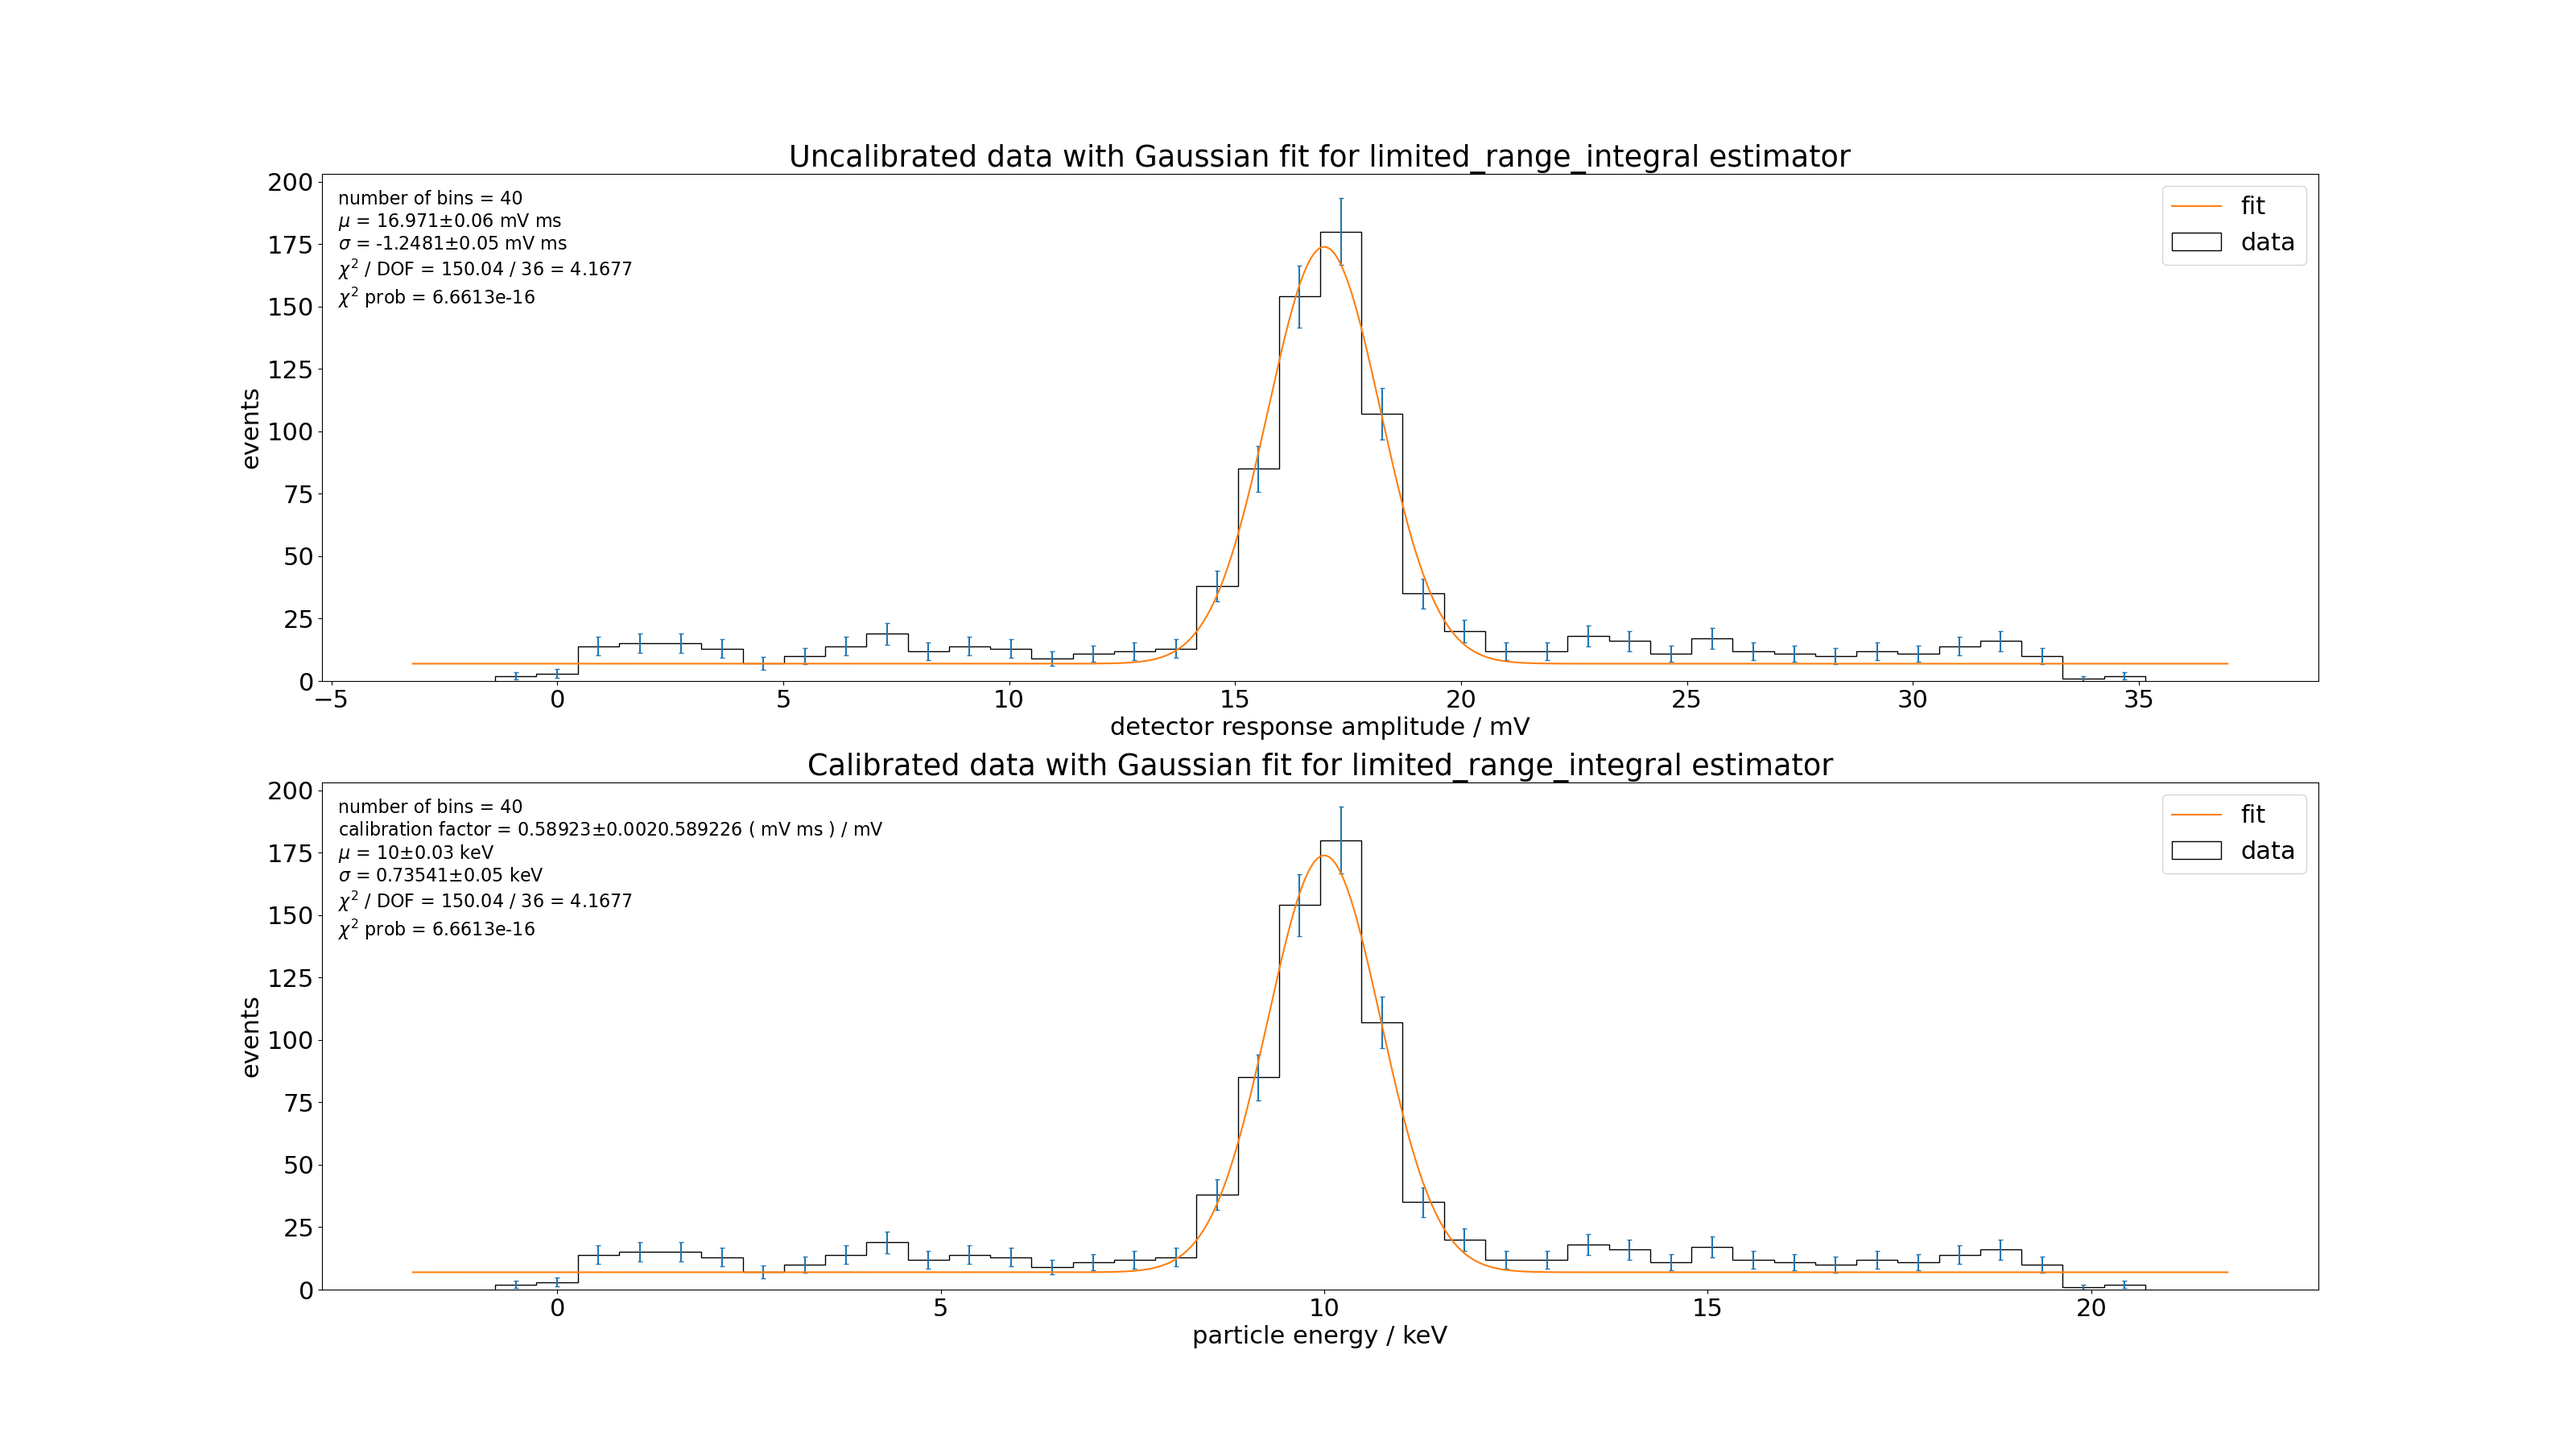
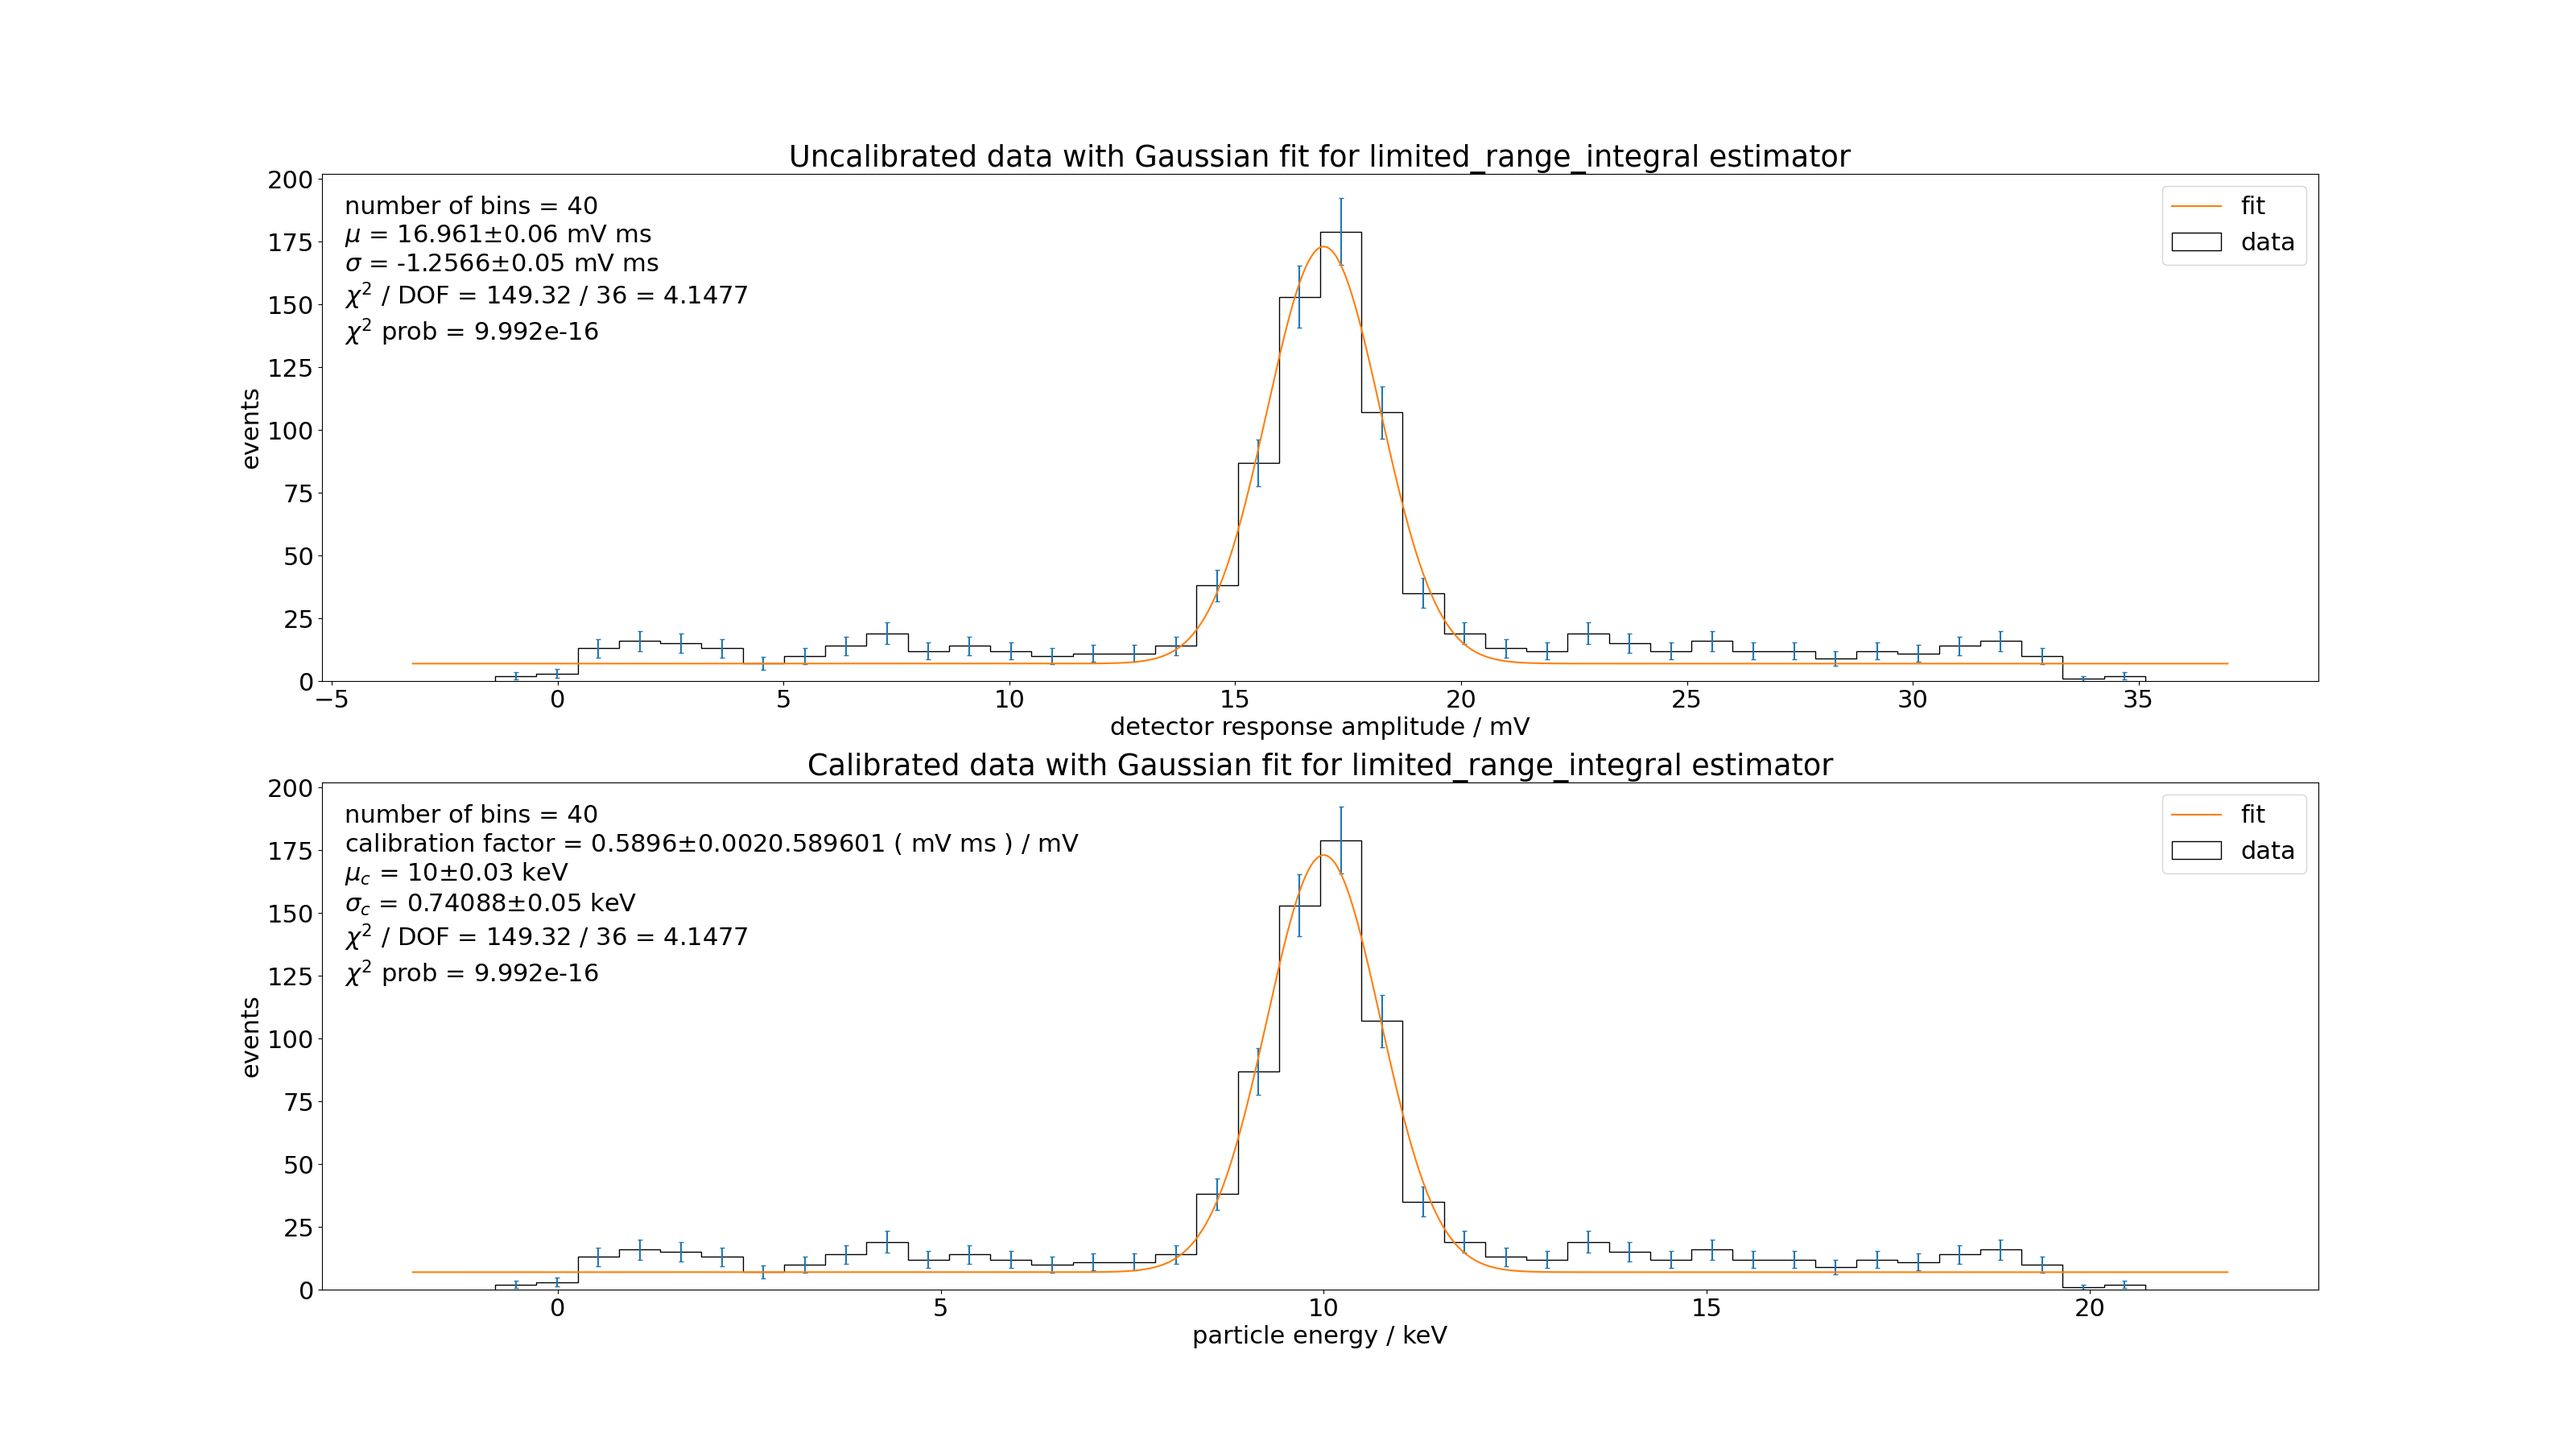
increased fontsize for info on plots, fixed baseline subtracted limited range integral estimator name

diff --git a/estimator_analysis.py b/estimator_analysis.py
@@ -94,7 +94,7 @@ class EstimatorAnalysis():
         ax2.plot(x_for_plotting_calibrated, fitted_function_calibrated(x_for_plotting_calibrated), label='fit')
 
         info_sigfigs = 5
-        info_fontsize = 16
+        info_fontsize = 22
 
         ax1.set_ylabel('events')
         ax1.set_xlabel('detector response amplitude / mV')
@@ -118,8 +118,8 @@ class EstimatorAnalysis():
 
         information_on_ax2 = 'number of bins = ' + str(self.Estimator.number_of_bins) + \
                              '\ncalibration factor = ' + cff.to_sf(self.calibration_factor, sf=info_sigfigs) + '$ \pm $' + cff.to_sf(self.calibration_factor_error, sf=1) + '%f (%s ) / mV' % (self.calibration_factor, self.Estimator.unit) + \
-                             '\n$\mu$ = ' + cff.to_sf(self.calibrated_gaussian_mu, sf=info_sigfigs) + '$ \pm $' + cff.to_sf(self.calibrated_gaussian_mu_error, sf=1) + ' keV' + \
-                             '\n$\sigma$ = ' + cff.to_sf(self.calibrated_gaussian_sigma, sf=info_sigfigs) + '$ \pm $' + cff.to_sf(self.uncalibrated_gaussian_sigma_error, sf=1) + ' keV' + \
+                             '\n$\mu_c$ = ' + cff.to_sf(self.calibrated_gaussian_mu, sf=info_sigfigs) + '$ \pm $' + cff.to_sf(self.calibrated_gaussian_mu_error, sf=1) + ' keV' + \
+                             '\n$\sigma_c$ = ' + cff.to_sf(self.calibrated_gaussian_sigma, sf=info_sigfigs) + '$ \pm $' + cff.to_sf(self.uncalibrated_gaussian_sigma_error, sf=1) + ' keV' + \
                              '\n$\chi^2$ / DOF = ' + cff.to_sf(self.calibrated_raw_chi_squared, sf=info_sigfigs) + ' / ' + str(self.calibrated_dof) + ' = ' + cff.to_sf(self.calibrated_reduced_chi_squared, sf=info_sigfigs) + \
                              '\n$\chi^2$ prob = ' + cff.to_sf(self.calibrated_chi2_prob, sf=info_sigfigs)
 

diff --git a/estimators.py b/estimators.py
@@ -85,7 +85,7 @@ class LimitedRangeIntegral():
 
 class BaselineSubtractedLimitedRangeIntegral():
     def __init__(self):
-        self.name = 'limited_range_integral'
+        self.name = 'baseline_subtracted_limited_range_integral'
         self.range = None # this is the histogram range
         self.number_of_bins = 40
         self.p0 = None

diff --git a/main.py b/main.py
@@ -50,7 +50,7 @@ def single_estimate_signal():
 
 
 
-# run_from_arr()
+run_from_arr()
 
 # run_single_estimator()
 
